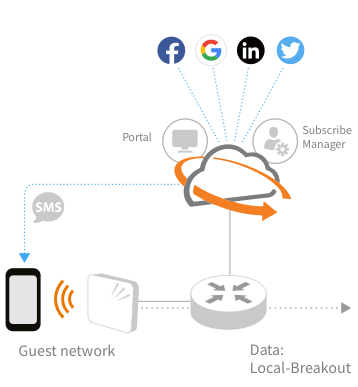
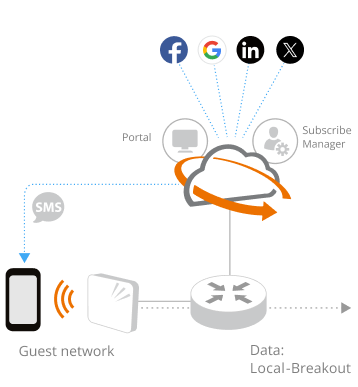
ACX-44386: Update "Twitter" to "X".

diff --git a/apps/rc/src/pages/Networks/wireless/NetworkForm/CaptivePortal/TwitterSetting.tsx b/apps/rc/src/pages/Networks/wireless/NetworkForm/CaptivePortal/TwitterSetting.tsx
@@ -59,7 +59,7 @@ export default function TwitterSetting (props:{
       setVisible(false)
     }}
   >
-    <Form.Item label={$t({ defaultMessage: 'Select Twitter app to be used for sign in' })}
+    <Form.Item label={$t({ defaultMessage: 'Select X app to be used for sign in' })}
       extra={<div style={{ textAlign: 'right', marginTop: -60 }}>
         <PreviewApp type='twitter' appPhoto={appPhoto}/></div>}
     />
@@ -90,7 +90,7 @@ export default function TwitterSetting (props:{
         <a href='https://developer.twitter.com/apps'
           target='_blank'
           rel='noreferrer'>
-          {$t({ defaultMessage: 'Twitter Application Management' })}</a>&nbsp;&nbsp;
+          {$t({ defaultMessage: 'X Application Management' })}</a>&nbsp;&nbsp;
         {$t({ defaultMessage: 'and paste the following URI in the app settings under:' })}
       </label><br/>
       <label>{$t({ defaultMessage: 'Settings > Callback URL' })}</label><br/>
@@ -99,12 +99,12 @@ export default function TwitterSetting (props:{
   </Form>
   return (
     <>
-      <Tooltip title={$t({ defaultMessage: 'Edit Twitter app' })}
+      <Tooltip title={$t({ defaultMessage: 'Edit X app' })}
         placement='bottom'><Button onClick={() => {setVisible(true)}}
-          title='settingicon'
+          data-testid='settingicon'
           type='link'><UI.ConfigurationSolid/></Button></Tooltip>
       <Modal
-        title={$t({ defaultMessage: 'Edit Twitter App' })}
+        title={$t({ defaultMessage: 'Edit X App' })}
         visible={visible}
         width={600}
         okText={$t({ defaultMessage: 'Save' })}

diff --git a/libs/common/icons/src/index.ts b/libs/common/icons/src/index.ts
@@ -268,7 +268,7 @@ export { ReactComponent as TagsOutline } from './icons/TagsOutline.svg'
 export { ReactComponent as TagsSolid } from './icons/TagsSolid.svg'
 export { ReactComponent as TextMinus } from './icons/TextMinus.svg'
 export { ReactComponent as TextPlus } from './icons/TextPlus.svg'
-export { ReactComponent as Twitter } from './icons/Twitter.svg'
+export { ReactComponent as Twitter } from './icons/TwitterX.svg'
 export { ReactComponent as Ubuntu } from './icons/Ubuntu.svg'
 export { ReactComponent as UplinkPortSolid } from './icons/UplinkPortSolid.svg'
 export { ReactComponent as UsersThreeOutlined } from './icons/UsersThreeOutlined.svg'
@@ -302,7 +302,7 @@ export { ReactComponent as SMSOutlined } from './icons/SMSOutlined.svg'
 export { ReactComponent as GoogleSolidPlus } from './icons/GoogleSolid.svg'
 export { ReactComponent as LinkedinOutlined } from './icons/LinkedinOutlined.svg'
 export { ReactComponent as FacebookOutlined } from './icons/FacebookOutlined.svg'
-export { ReactComponent as TwitterOutlined } from './icons/TwitterOutlined.svg'
+export { ReactComponent as TwitterOutlined } from './icons/TwitterXOutlined.svg'
 export { ReactComponent as AccessPointWifi } from './icons/AccessPointWifi.svg'
 export { ReactComponent as Switch } from './icons/Switch.svg'
 export { ReactComponent as CloudSolid } from './icons/CloudSolid.svg'

diff --git a/apps/rc/src/pages/Networks/wireless/NetworkForm/CaptivePortal/LinkedInSetting.spec.tsx b/apps/rc/src/pages/Networks/wireless/NetworkForm/CaptivePortal/LinkedInSetting.spec.tsx
@@ -20,7 +20,7 @@ describe('CaptiveNetworkForm-SelfSignInLinkedin', () => {
       }}
     ><StepsFormLegacy><StepsFormLegacy.StepForm children={<LinkedInSetting redirectURL={''} />} />
       </StepsFormLegacy></NetworkFormContext.Provider></Provider>)
-    fireEvent.click(await screen.findByTitle('settingicon'))
+    fireEvent.click(await screen.findByTestId('settingicon'))
     const linkedinId = await screen.findByLabelText(/Client ID/)
     fireEvent.change(linkedinId, { target: { value: 'linedin' } })
     fireEvent.blur(linkedinId)
@@ -36,7 +36,7 @@ describe('CaptiveNetworkForm-SelfSignInLinkedin', () => {
       }}
     ><StepsFormLegacy><StepsFormLegacy.StepForm children={<LinkedInSetting redirectURL={''} />} />
       </StepsFormLegacy></NetworkFormContext.Provider></Provider>)
-    fireEvent.click(await screen.findByTitle('settingicon'))
+    fireEvent.click(await screen.findByTestId('settingicon'))
     await userEvent.click((await screen.findAllByRole('button', { name: 'Cancel' }))[1])
   })
 })

diff --git a/apps/rc/src/pages/Networks/wireless/NetworkForm/CaptivePortal/TwitterSetting.spec.tsx b/apps/rc/src/pages/Networks/wireless/NetworkForm/CaptivePortal/TwitterSetting.spec.tsx
@@ -20,7 +20,7 @@ describe('CaptiveNetworkForm-SelfSignInTwitter', () => {
       }}
     ><StepsFormLegacy><StepsFormLegacy.StepForm children={<TwitterSetting redirectURL={''} />} />
       </StepsFormLegacy></NetworkFormContext.Provider></Provider>)
-    fireEvent.click(await screen.findByTitle('settingicon'))
+    fireEvent.click(await screen.findByTestId('settingicon'))
     const twitterId = await screen.findByLabelText(/Consumer Key/)
     fireEvent.change(twitterId, { target: { value: 'twitter' } })
     fireEvent.blur(twitterId)
@@ -36,7 +36,7 @@ describe('CaptiveNetworkForm-SelfSignInTwitter', () => {
       }}
     ><StepsFormLegacy><StepsFormLegacy.StepForm children={<TwitterSetting redirectURL={''} />} />
       </StepsFormLegacy></NetworkFormContext.Provider></Provider>)
-    fireEvent.click(await screen.findByTitle('settingicon'))
+    fireEvent.click(await screen.findByTestId('settingicon'))
     await userEvent.click((await screen.findAllByRole('button', { name: 'Cancel' }))[1])
   })
 })

diff --git a/apps/rc/src/pages/Networks/wireless/NetworkForm/CaptivePortal/GoogleSetting.spec.tsx b/apps/rc/src/pages/Networks/wireless/NetworkForm/CaptivePortal/GoogleSetting.spec.tsx
@@ -21,7 +21,7 @@ describe('CaptiveNetworkForm-SelfSignInGoogle', () => {
       }}
     ><StepsFormLegacy><StepsFormLegacy.StepForm children={<GoogleSetting redirectURL={''} />} />
       </StepsFormLegacy></NetworkFormContext.Provider></Provider>)
-    fireEvent.click(await screen.findByTitle('settingicon'))
+    fireEvent.click(await screen.findByTestId('settingicon'))
     const googleId = await screen.findByLabelText(/Client ID/)
     fireEvent.change(googleId, { target: { value: 'google' } })
     fireEvent.blur(googleId)
@@ -37,7 +37,7 @@ describe('CaptiveNetworkForm-SelfSignInGoogle', () => {
       }}
     ><StepsFormLegacy><StepsFormLegacy.StepForm children={<GoogleSetting redirectURL={''} />} />
       </StepsFormLegacy></NetworkFormContext.Provider></Provider>)
-    fireEvent.click(await screen.findByTitle('settingicon'))
+    fireEvent.click(await screen.findByTestId('settingicon'))
     await userEvent.click((await screen.findAllByRole('button', { name: 'Cancel' }))[1])
   })
 })

diff --git a/apps/rc/src/pages/Networks/wireless/NetworkForm/CaptivePortal/FacebookSetting.spec.tsx b/apps/rc/src/pages/Networks/wireless/NetworkForm/CaptivePortal/FacebookSetting.spec.tsx
@@ -24,7 +24,7 @@ describe('CaptiveNetworkForm-SelfSignInFacebook', () => {
         <StepsFormLegacy.StepForm children={<FacebookSetting redirectURL={''} />} />
       </StepsFormLegacy>
     </NetworkFormContext.Provider></Provider>)
-    fireEvent.click(await screen.findByTitle('settingicon'))
+    fireEvent.click(await screen.findByTestId('settingicon'))
     const facebookId = await screen.findByLabelText(/App ID/)
     fireEvent.change(facebookId, { target: { value: 'facebook' } })
     fireEvent.blur(facebookId)
@@ -46,7 +46,7 @@ describe('CaptiveNetworkForm-SelfSignInFacebook', () => {
         <StepsFormLegacy.StepForm children={<FacebookSetting redirectURL={''} />} />
       </StepsFormLegacy>
     </NetworkFormContext.Provider></Provider>)
-    fireEvent.click(await screen.findByTitle('settingicon'))
+    fireEvent.click(await screen.findByTestId('settingicon'))
     await userEvent.click((await screen.findAllByRole('button', { name: 'Cancel' }))[1])
   })
 })

diff --git a/apps/rc/src/pages/Networks/wireless/NetworkForm/CaptivePortal/SelfSignInForm.spec.tsx b/apps/rc/src/pages/Networks/wireless/NetworkForm/CaptivePortal/SelfSignInForm.spec.tsx
@@ -66,7 +66,7 @@ describe.skip('CaptiveNetworkForm-SelfSignIn', () => {
       { name: /Google/ }))
     await userEvent.click(await screen.findByText('Add'))
     await userEvent.click(await screen.findByRole('checkbox',
-      { name: /Twitter/ }))
+      { name: /X/ }))
     await userEvent.click(await screen.findByText('Add'))
     await userEvent.click(await screen.findByRole('checkbox',
       { name: /LinkedIn/ }))
@@ -86,7 +86,7 @@ describe.skip('CaptiveNetworkForm-SelfSignIn', () => {
     await userEvent.click(await screen.findByRole('checkbox',
       { name: /Google/ }))
     await userEvent.click(await screen.findByRole('checkbox',
-      { name: /Twitter/ }))
+      { name: /X/ }))
     await userEvent.click(await screen.findByRole('checkbox',
       { name: /LinkedIn/ }))
     await userEvent.click(await screen.findByText('Add'))

diff --git a/apps/rc/src/pages/Networks/wireless/NetworkForm/styledComponents.ts b/apps/rc/src/pages/Networks/wireless/NetworkForm/styledComponents.ts
@@ -53,9 +53,10 @@ export const ConfigurationSolid = styled(UIConfigurationSolid)`
   color: var(--acx-primary-black);
 `
 const socialIconStyle=css`
-  width:16px;
-  margin-bottom:-11px;
-  margin-right:3px;
+  width: 16px;
+  height: 16px;
+  margin-bottom: -4px;
+  margin-right: 3px;
   path{
     fill:var(--acx-neutrals-60);
   }
@@ -64,9 +65,10 @@ export const SMSToken = styled(UISMSToken)`
   ${socialIconStyle}
 `
 export const Google = styled(UIGoogle)`
-width:16px;
-margin-bottom:-11px;
-margin-right:3px;
+width: 16px;
+height: 16px;
+margin-bottom: -4px;
+margin-right: 3px;
 path{
   stroke:var(--acx-neutrals-60);
 }

diff --git a/apps/rc/src/pages/Networks/wireless/NetworkForm/CaptivePortal/PreviewApp.tsx b/apps/rc/src/pages/Networks/wireless/NetworkForm/CaptivePortal/PreviewApp.tsx
@@ -10,7 +10,7 @@ const appDescriptions: Record<string, MessageDescriptor> = {
   'affect the popup that users see on their first sign in to the network' }),
   linkedin: defineMessage({ defaultMessage: '-The selected LinkedIn app will affect the popup '+
   'that users see on their first sign in to the network' }),
-  twitter: defineMessage({ defaultMessage: '-The selected Twitter app will affect the popup '+
+  twitter: defineMessage({ defaultMessage: '-The selected X app will affect the popup '+
   'that users see on their first sign in to the network' })
 }
 export default function PreviewApp (props:{

diff --git a/apps/rc/src/pages/Networks/wireless/NetworkForm/NetworkSummary/PortalSummaryForm.tsx b/apps/rc/src/pages/Networks/wireless/NetworkForm/NetworkSummary/PortalSummaryForm.tsx
@@ -52,7 +52,7 @@ export function PortalSummaryForm (props: {
           {summaryData.guestPortal?.socialIdentities?.google&&
             <div><UI.Google/>{$t({ defaultMessage: 'Google' })}</div>}
           {summaryData.guestPortal?.socialIdentities?.twitter&&
-            <div><UI.Twitter/>{$t({ defaultMessage: 'Twitter' })}</div>}
+            <div><UI.Twitter/>{$t({ defaultMessage: 'X' })}</div>}
           {summaryData.guestPortal?.socialIdentities?.linkedin&&
             <div><UI.LinkedIn/>{}</div>}
         </>}

diff --git a/apps/rc/src/pages/Services/Portal/PortalDemo/index_demo_component.spec.tsx b/apps/rc/src/pages/Services/Portal/PortalDemo/index_demo_component.spec.tsx
@@ -84,7 +84,7 @@ describe('PortalDemo', () => {
     const toogleButton = rows[2]
     fireEvent.click(toogleButton)
     fireEvent.click(toogleButton)
-    const setRows = await screen.findAllByTitle('settingicon')
+    const setRows = await screen.findAllByTestId('settingicon')
     fireEvent.click(setRows[0])
     await userEvent.type(await screen.findByPlaceholderText('Paste the text here...'),'terms terms')
     await userEvent.click(await screen.findByRole('button', { name: 'Cancel' }))

diff --git a/apps/rc/src/pages/Networks/wireless/NetworkForm/CaptivePortal/FacebookSetting.tsx b/apps/rc/src/pages/Networks/wireless/NetworkForm/CaptivePortal/FacebookSetting.tsx
@@ -104,7 +104,7 @@ export default function FacebookSetting (props:{
     <>
       <Tooltip title={$t({ defaultMessage: 'Edit Facebook app' })}
         placement='bottom'><Button onClick={() => {setVisible(true)}}
-          title='settingicon'
+          data-testid='settingicon'
           type='link'><UI.ConfigurationSolid/></Button></Tooltip>
       <Modal
         title={$t({ defaultMessage: 'Edit Facebook App' })}
